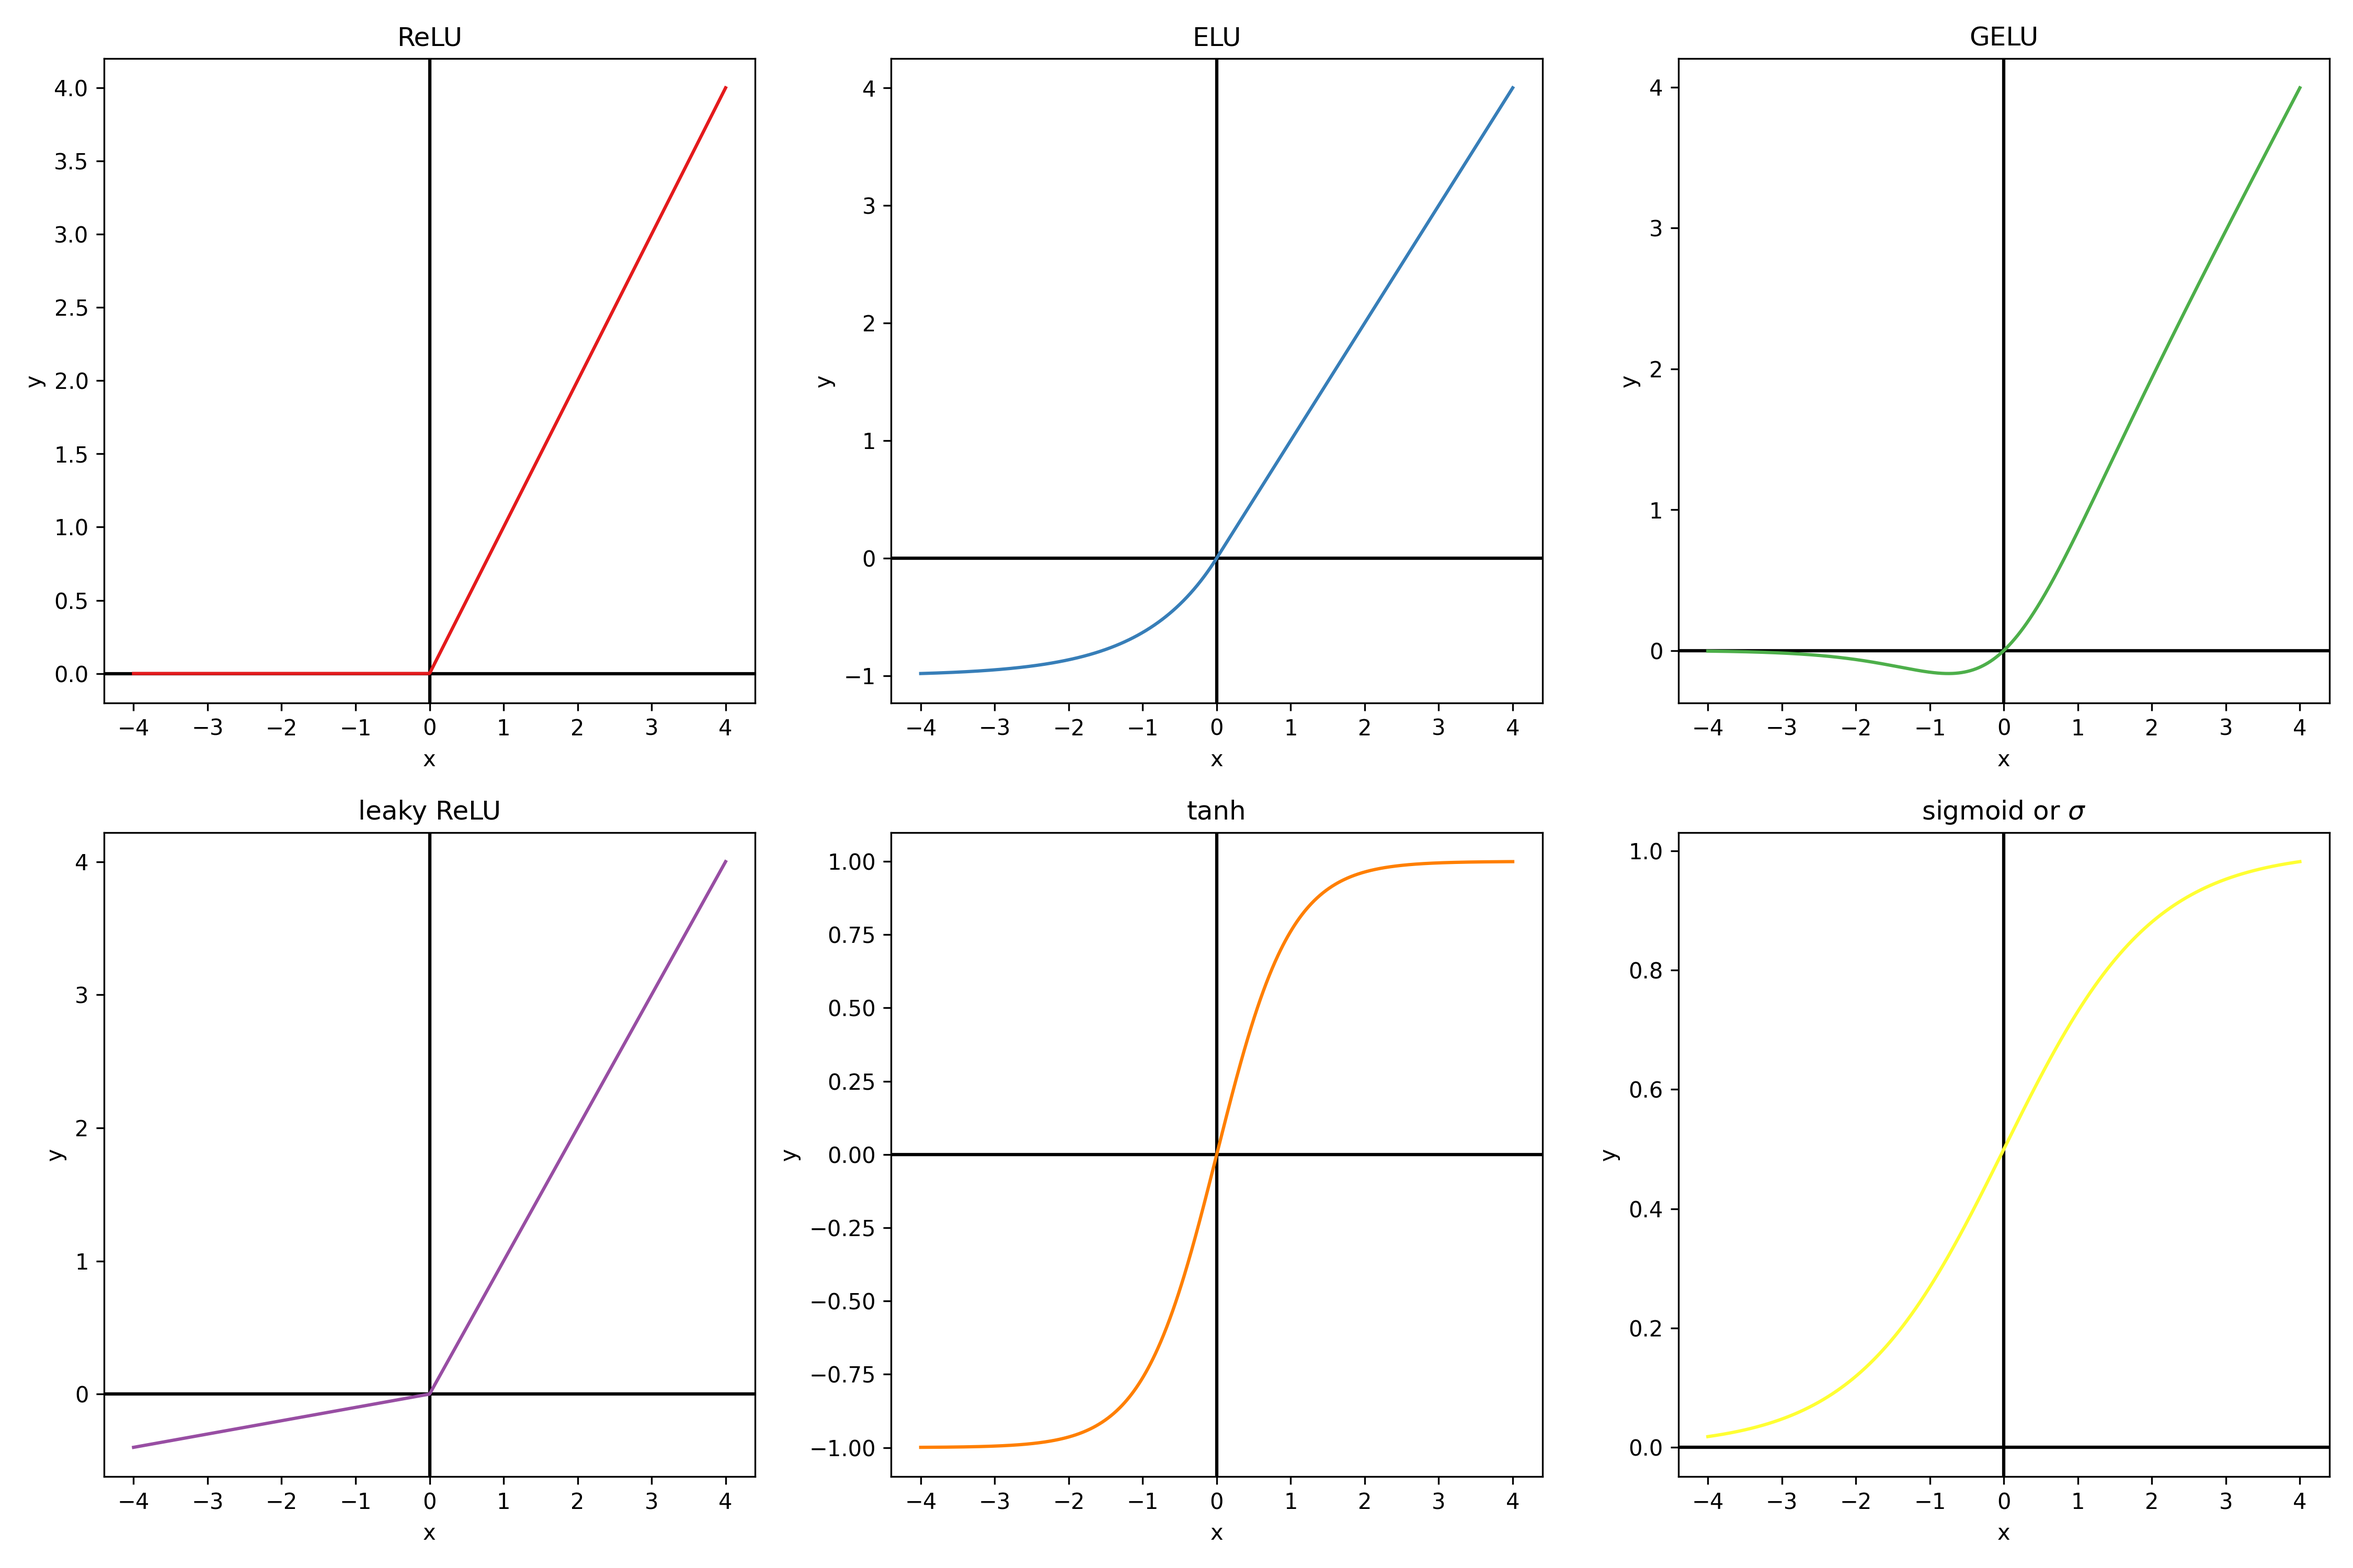
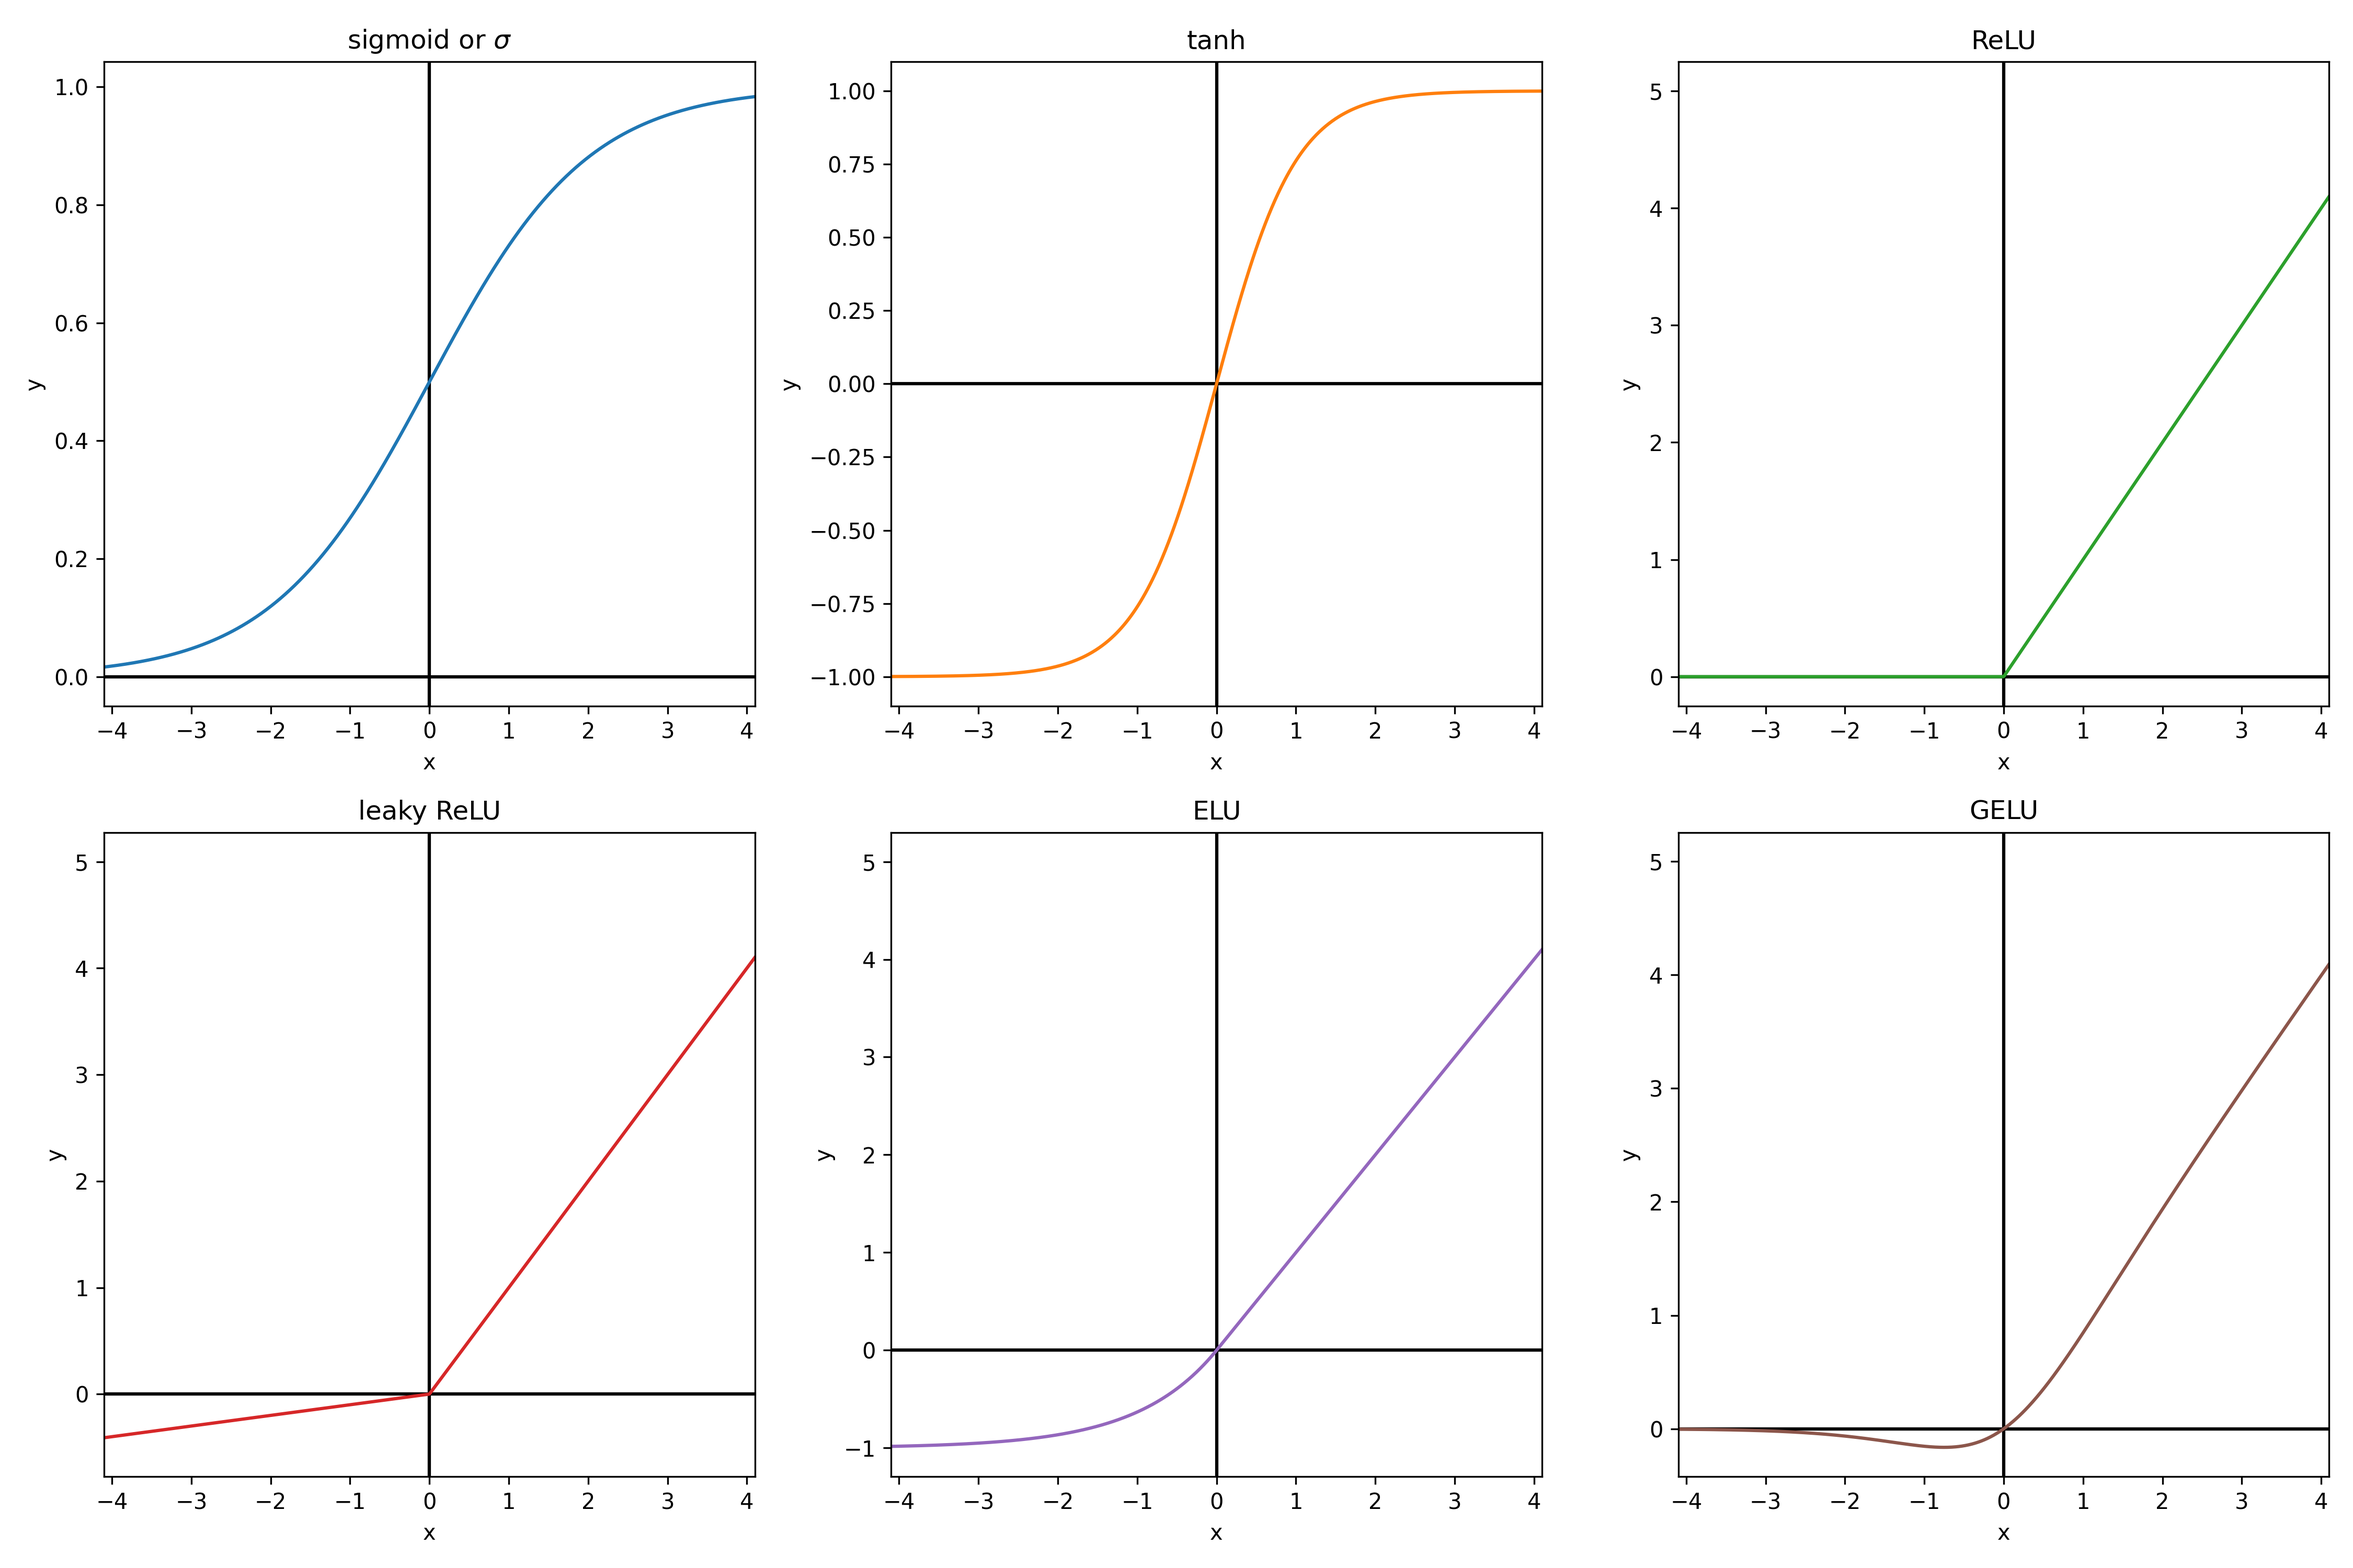
modified colors of activation functions

diff --git a/introduction_to_machine_learning/images/neural_network/neural_network.py b/introduction_to_machine_learning/images/neural_network/neural_network.py
@@ -58,10 +58,11 @@ f.savefig(path / "neural_network_explaination.png", transparent=True, dpi=300)
 
 # usual activation functions
 
-x = np.linspace(-4, 4, 1000)
+colors = mpl.cm.tab10.colors
+x = np.linspace(-5, 5, 1000)
 f, axes = plt.subplots(figsize=[15, 10], ncols=3, nrows=2)
-functions = [[("ReLU", lambda x: np.maximum(x, np.zeros(x.shape))), ("ELU", lambda x: np.where(x > 0, x, np.exp(x)-1)), ("GELU", lambda x: x*1/(1+np.exp(-1.702*x)))],
-             [("leaky ReLU", lambda x: np.maximum(x, 0.1*x)), ("tanh", lambda x: np.tanh(x)), ("sigmoid or $\sigma$", lambda x: 1/(1+np.exp(-x))), ]]
+functions = [[("sigmoid or $\sigma$", lambda x: 1/(1+np.exp(-x))), ("tanh", lambda x: np.tanh(x)), ("ReLU", lambda x: np.maximum(x, np.zeros(x.shape)))],
+             [("leaky ReLU", lambda x: np.maximum(x, 0.1*x)), ("ELU", lambda x: np.where(x > 0, x, np.exp(x)-1)), ("GELU", lambda x: x*1/(1+np.exp(-1.702*x)))]]
 counter = itertools.count(0)
 for line, axs in zip(functions, axes):
     for (name, func), ax, i in zip(line, axs, counter):
@@ -71,6 +72,7 @@ for line, axs in zip(functions, axes):
         ax.set_title(name)
         ax.set_xlabel("x")
         ax.set_ylabel("y")
+        ax.set_xlim([-4.1, 4.1])
 f.tight_layout()
 
 f.savefig(path / "activation_functions.png", transparent=True, dpi=300)
